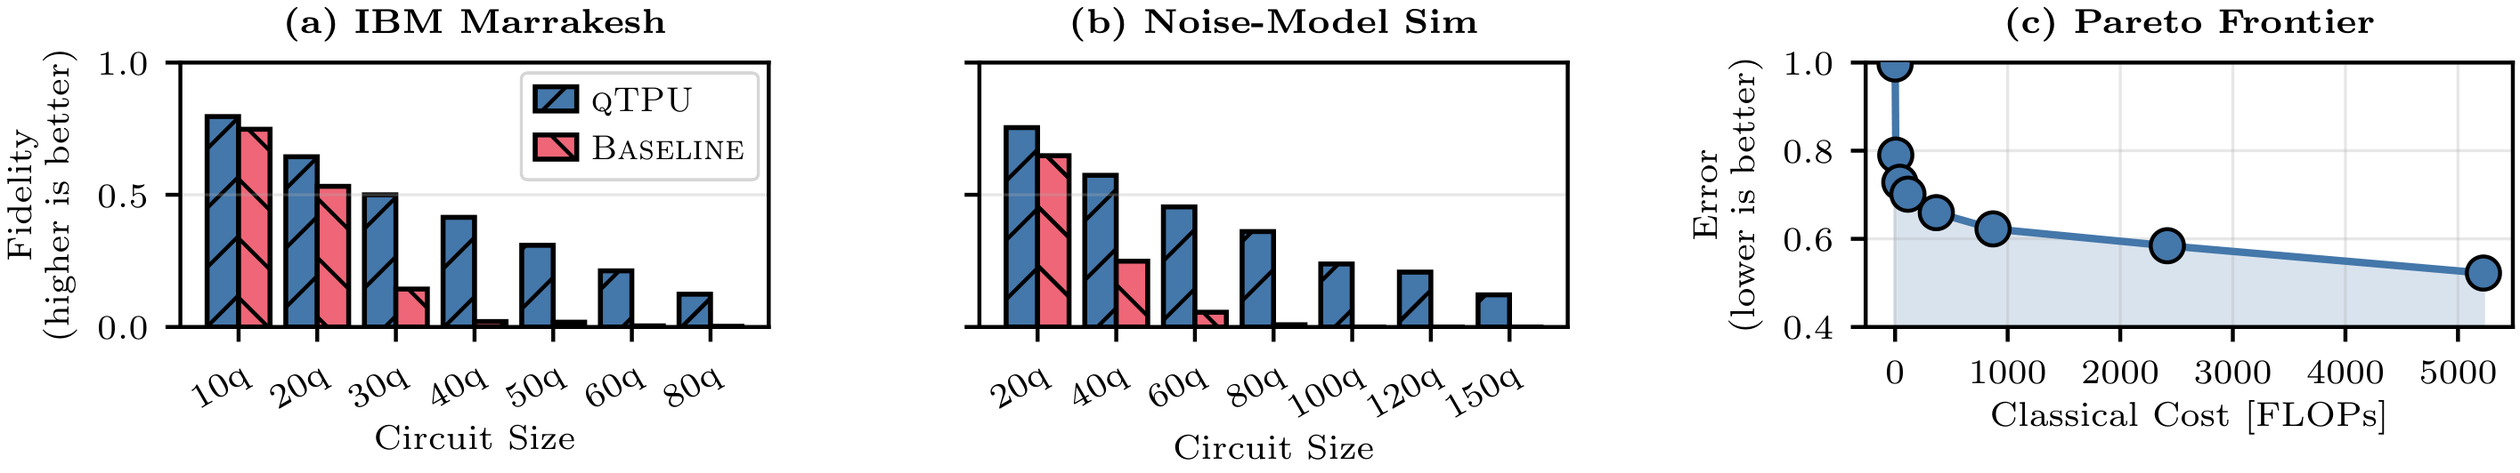
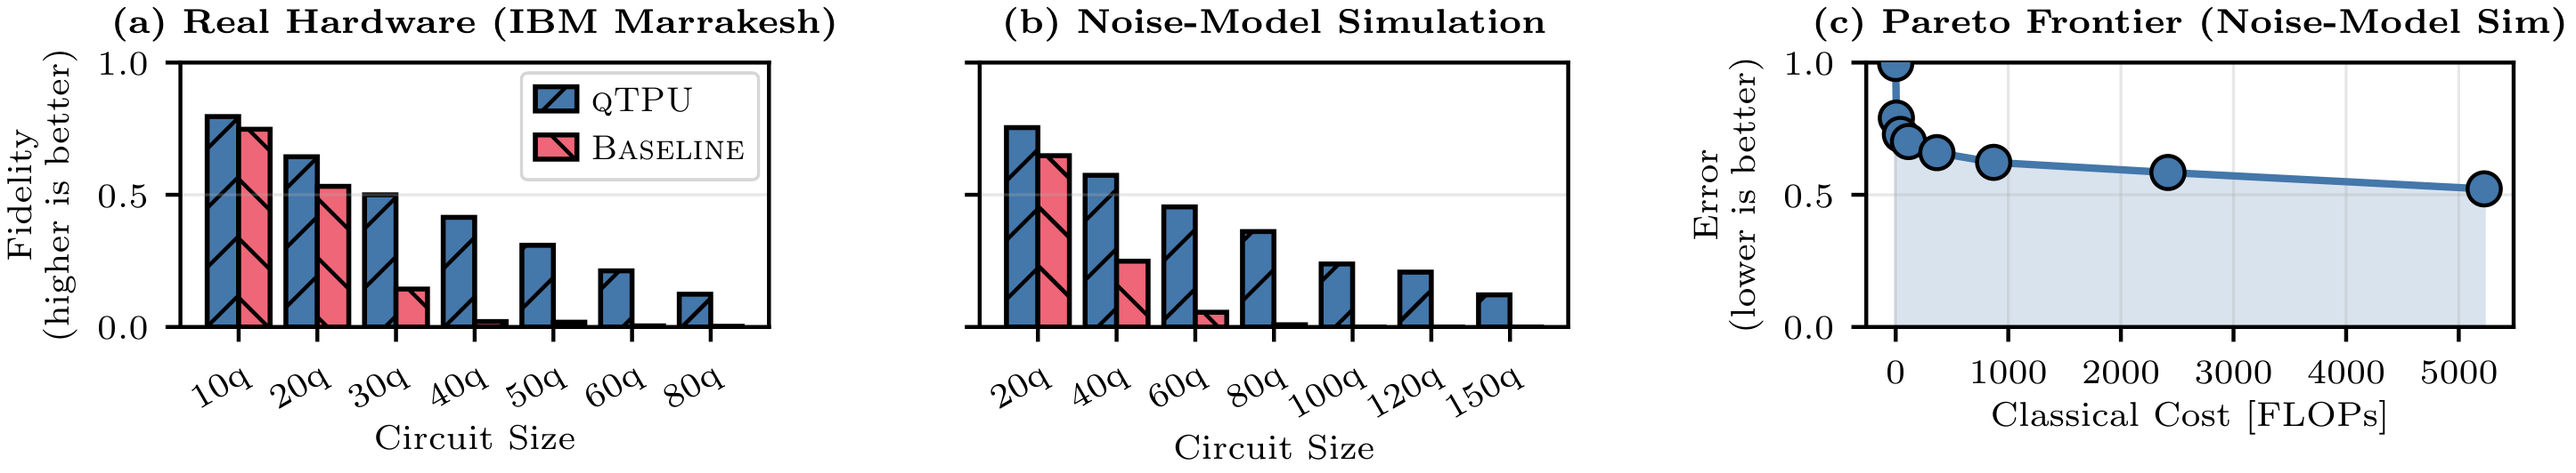
Update QNN figure: clearer panel titles and tighter y-limits
- Panel (a): "Real Hardware (IBM Marrakesh)" makes hardware story explicit
- Panel (b): "Noise-Model Simulation" (full name)
- Panel (c): "Pareto Frontier (Noise-Model Sim)" disambiguates from hardware
- Refresh hw_fidelity.png

diff --git a/evaluation/hardware/plot_qnn.py b/evaluation/hardware/plot_qnn.py
@@ -61,7 +61,7 @@ def plot_hw(ax, hw_df, *, show_ylabel, show_legend):
         qtpu_vals.append(float(row["cut"]["expval"]))
         base_vals.append(float(row["mono"]["expval"]))
     _plot_bars(ax, sizes, qtpu_vals, base_vals,
-               r"\textbf{(a) IBM Marrakesh}",
+               r"\textbf{(a) Real Hardware (IBM Marrakesh)}",
                show_ylabel=show_ylabel, show_legend=show_legend)
 
 
@@ -73,7 +73,7 @@ def plot_sim(ax, sim_df, *, show_ylabel, show_legend):
         qtpu_vals.append(float(row["cut"]))
         base_vals.append(float(row["mono_mean"]))
     _plot_bars(ax, sizes, qtpu_vals, base_vals,
-               r"\textbf{(b) Noise-Model Sim}",
+               r"\textbf{(b) Noise-Model Simulation}",
                show_ylabel=show_ylabel, show_legend=show_legend)
 
 
@@ -100,7 +100,7 @@ def plot_pareto(ax, hw_df, sim_df, *, show_ylabel, show_legend):
     ax.set_xlabel("Classical Cost [FLOPs]", labelpad=2)
     if show_ylabel:
         ax.set_ylabel("Error\n(lower is better)")
-    ax.set_title(r"\textbf{(c) Pareto Frontier}")
+    ax.set_title(r"\textbf{(c) Pareto Frontier (Noise-Model Sim)}")
     ax.set_ylim(0.4, 1.0)
     ax.grid(True, alpha=0.3)
 
@@ -118,6 +118,7 @@ def plot_qnn(hw_df, sim_df, pareto_hw_df, pareto_sim_df):
                 show_ylabel=True, show_legend=True)
     axes[0].set_ylim(0, 1.0)
     axes[1].set_ylim(0, 1.0)
+    axes[2].set_ylim(0, 1.0)
     axes[1].tick_params(labelleft=False)
     fig.subplots_adjust(wspace=0.08)
     fig.tight_layout()
